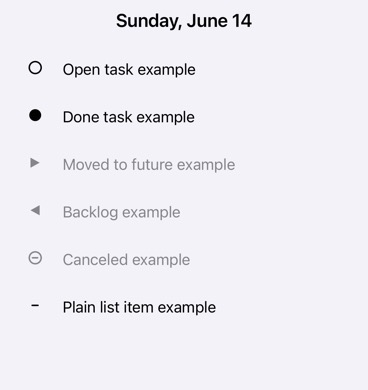
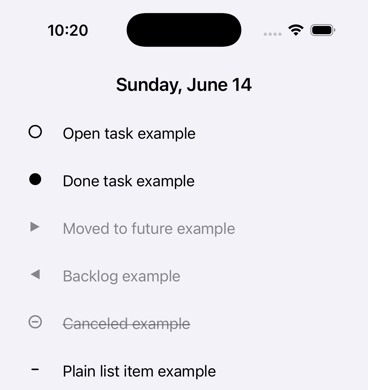
Show canceled rows with strikethrough

diff --git a/index.html b/index.html
@@ -57,7 +57,7 @@
           <div class="phone-frame">
             <img
               src="product/rivene-daily-log-options.jpg"
-              alt="rivene daily log showing open, done, moved, backlog, canceled, and plain list item examples."
+              alt="rivene daily log showing open, done, moved, backlog, struck-through canceled, and plain list item examples."
               width="368"
               height="800"
             >
@@ -124,7 +124,7 @@
             <span class="state-glyph state-glyph--canceled" aria-hidden="true"></span>
             <div>
               <h3>Canceled</h3>
-              <p>Dead on purpose. A clean no with a paper trail.</p>
+              <p>Dead on purpose. A clean no with a strikethrough paper trail.</p>
               <code>- [-] reply to mystery thread</code>
             </div>
           </article>
@@ -143,7 +143,7 @@
         <figure class="detail-shot">
           <img
             src="product/rivene-daily-log-options-detail.jpg"
-            alt="Close crop of the rivene daily log showing every entry state option."
+            alt="Close crop of the rivene daily log showing every entry state option, including struck-through canceled text."
             width="368"
             height="390"
             loading="lazy"